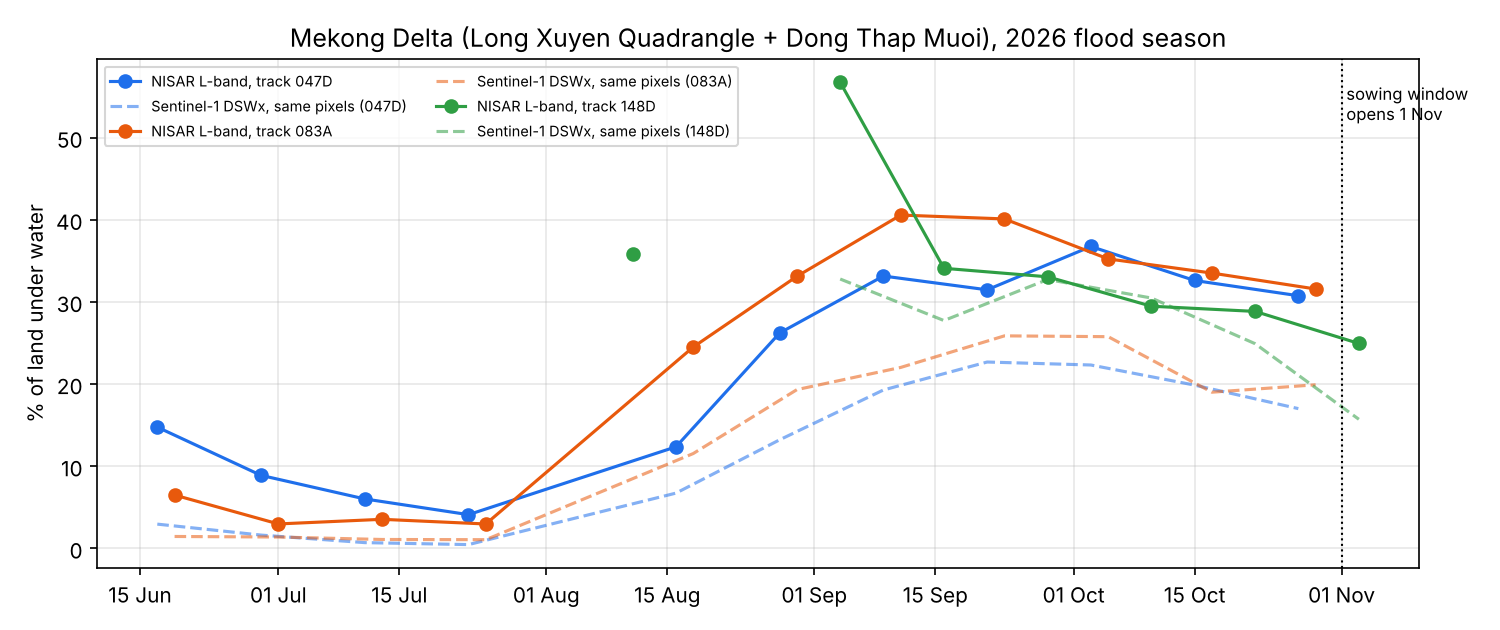
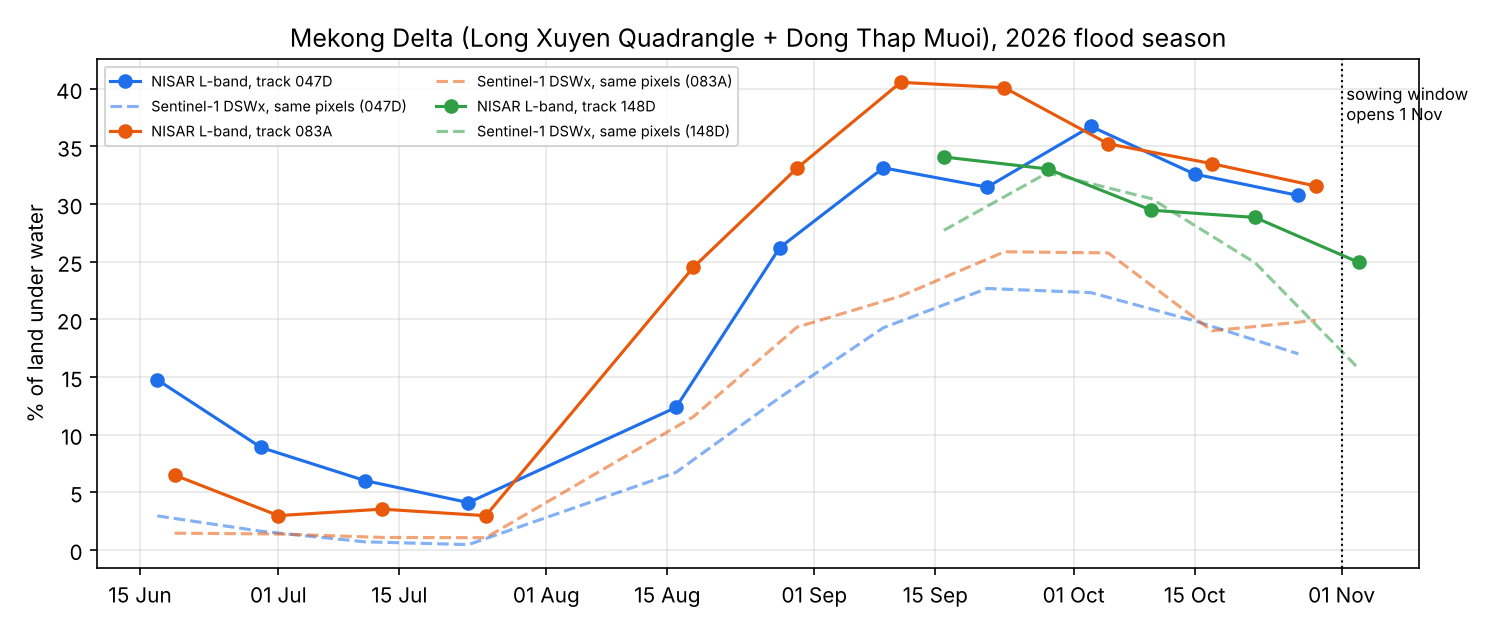
figures: drop dates with <5% Sentinel-1 overlap from fig1
Same rule as calibrate. Two 148D dates (11 Aug, 4 Sep) were drawn from a
~77 km2 sliver and showed 36-57% water (reported by Dat).

Claude-Session: https://claude.ai/code/session_01SgAAvL66CnH51Jxo45JJ56

diff --git a/src/skyradar_nisar/figures.py b/src/skyradar_nisar/figures.py
@@ -31,6 +31,8 @@ def fig1():
         w = _rd(P / f"water/{k}_water.tif"); valid = w != 255
         if k in s1:
             ok = valid & np.isin(s1[k], [0, 1, 3]) & ~perm
+            if ok.mean() < 0.05:   # same rule as calibrate: almost no Sentinel-1 overlap (e.g. most 148D dates)
+                continue
             ser[k[11:]].append((dt.date.fromisoformat(k[:10]), np.mean(w[ok] == 1) * 100, np.mean(s1[k][ok] == 1) * 100))
     fig, ax = plt.subplots(figsize=(10, 4.2))
     for trk, rows in ser.items():
